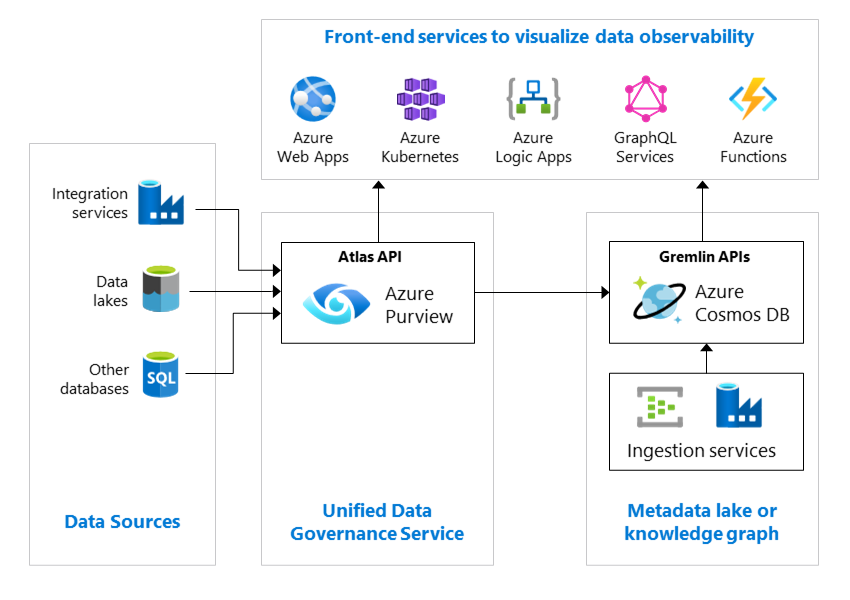
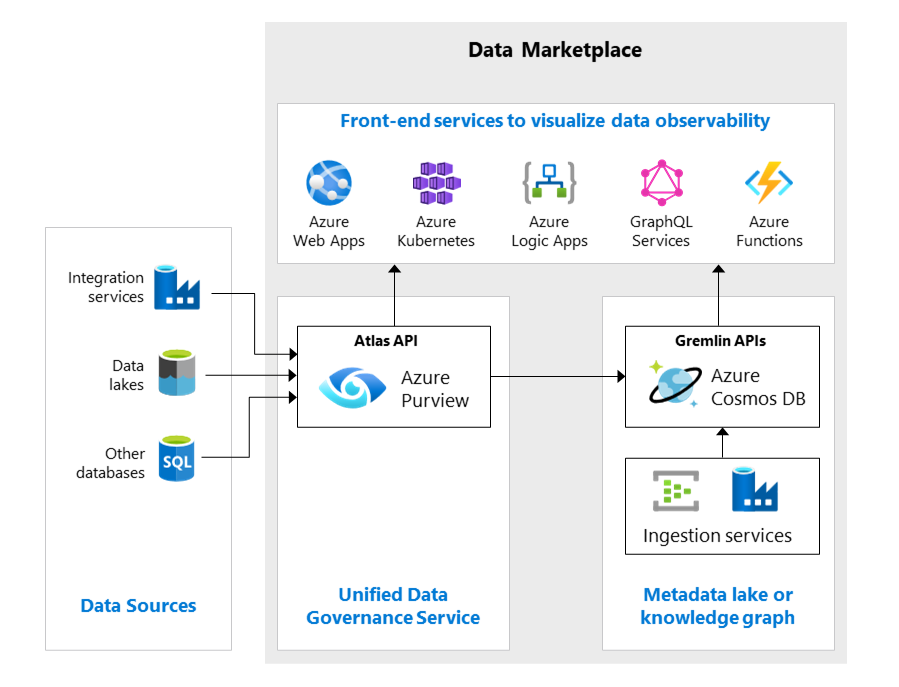
commit data marketplace

Changed region(s): [[0.0306, 0.12, 0.9482, 0.96], [0.3671, 0.03, 0.8871, 0.09], [0.7035, 0.84, 0.9176, 0.96]]

diff --git a/docs/scenarios/data-management/architectures/data-marketplace.md b/docs/scenarios/data-management/architectures/data-marketplace.md
@@ -1,9 +1,9 @@
 ---
 title: Data Marketplace
 description: Learn about data marketplace
-author: mboswell
-ms.author: mboswell
-ms.date: 03/03/2021
+author: PietheinStrengholt
+ms.author: pstrengholt
+ms.date: 02/11/2022
 ms.topic: conceptual
 ms.service: cloud-adoption-framework
 ms.subservice: scenario
@@ -12,4 +12,20 @@ ms.custom: e2e-data-management, think-tank
 
 # Data marketplace
 
-xxxx
+There is a growing trend in the industry to bring data closer to data analysts and scientists by using portals and data marketplaces that leverage the underlying [metadata](./metadata-standards.md) intensively. A data marketplace is an intuitive, secure, centralized, and standardized data shopping experience for all your data consumers. It is also meant to keep track over all your data products, which are typically stored across a range of data domains.
+
+To democratize data via your data mesh architecture, you need to focus on four important areas:
+
+1. A *self-service collaboration portal* allows data providers and data consumers to work together on what data can be made available. This portal should provide extensive search capabilities, allowing users to search on keywords, business terms, and natural languages. The collaboration side of data democratization is often linked to data catalogs, or fully managed metadata management services for easily searching and discovering metadata. A proven approach for a self-service collaboration portal is [Azure Purview](/azure/purview/). It supports [data discovery](/azure/purview/how-to-browse-catalog/), including glossaries and [classifications](azure/purview/classification-insights/), which enables your data consumers to easily find data. It also supports [data owner access policies](azure/purview/how-to-data-owner-policy-authoring-generic/) for providing data access in a self-service manner.
+
+2. *Self-service provisioning*, which refers to a set of tools for automating the deployment and provisioning of common and reusable consumption patterns, such as business intelligence, data wrangling, and data exploration. Best practices for allowing your users to  set up and launch their own data services is to investigate in [DataOps](./data-mesh-dataops.md), [deployment and management services](azure/azure-resource-manager/management/overview/) and [development services](azure/devops/).
+
+3. *Monitoring capabilities*, such as dashboards and report, for keeping sight of the overall health status of all interfaces, data flows, provisioned components, central tools, etc. The recommendation for monitoring and insights is to adopt [Azure Monitor](azure/azure-monitor/), which helps you maximize the availability and performance of your applications and services. For data observability, the recommended approach is to create an umbrella on top your self-service collaboration portal and other metadata services. For this you might consider designing your own [metadata lake](./metadata-standards.md) using services like [Azure Cosmos DB](azure/cosmos-db/) and [Azure Event Hubs](azure/event-hubs/).
+
+4. *Intelligent services*, which enbale you to automatically predict what users will be looking for and intelligently collect and prepare data. This required you to invest in [Cognitive Services](azure/cognitive-services/) and [Machine Learning](azure/machine-learning/).
+
+:::image type="content" source="../images/metadata-standards.png" alt-text="Metadata Lake Architecture" lightbox="../images/metadata-standards.png":::
+
+The marketplace itself is typically a thin orchestration layer with an appealing look and feel, offering unique user experiences. It utilizes the underlying metadata repositories, which can be a mixture of homegrown [metadata](./metadata-standards.md) resposities and Azure services, like [Azure Purview](/azure/purview/). Depending on how smart you want to make it, you can extend it with additional analytical and provisioning capabilities.
+
+Building a data marketplace is not only about tools, services and metadata. It’s also about structure, culture, and people. The cultural aspects require less rigid [governance](./data-mesh-governance.md). It requires you to give users trust, to train people, and to work on awareness. These activities should not be underestimated. Your users are valuable resources; they own or use specific parts of the data landscape. Making better use of your users increases the efficiency of data knowledge and data usage.
